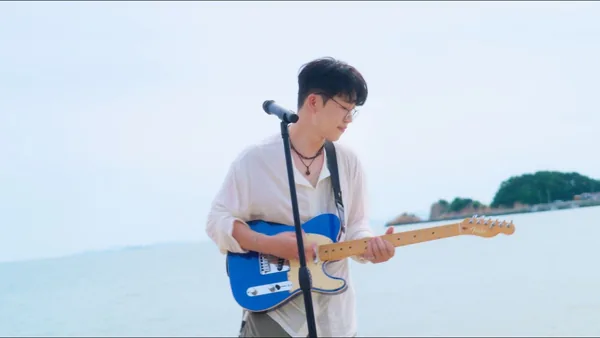
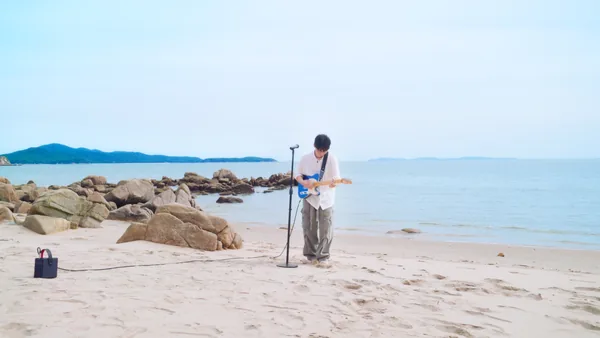
chore(portfolio): 작업물 목록 자동 갱신

diff --git a/works/온 계절이 다 너로 가득한 - 홍대광/index.html b/works/온 계절이 다 너로 가득한 - 홍대광/index.html
@@ -27,12 +27,38 @@
 <article class="post">
   <header class="post-head">
     <h1 class="post-title">온 계절이 다 너로 가득한</h1>
-    <nav class="post-arrows"><a class="post-arrow post-arrow-prev" href="../../works/dewalt%20heritage2/" aria-label="이전 작업물: Dewalt heritage"><svg class="post-arrow-icon" viewBox="0 0 24 24" aria-hidden="true" focusable="false"><polyline points="15 6 9 12 15 18" fill="none" stroke="currentColor" stroke-width="1.5" stroke-linecap="round" stroke-linejoin="round"/></svg></a></nav>
+    <nav class="post-arrows"><a class="post-arrow post-arrow-next" href="../../works/dewalt%20heritage1/" aria-label="다음 작업물: Dewalt heritage"><svg class="post-arrow-icon" viewBox="0 0 24 24" aria-hidden="true" focusable="false"><polyline points="9 6 15 12 9 18" fill="none" stroke="currentColor" stroke-width="1.5" stroke-linecap="round" stroke-linejoin="round"/></svg></a></nav>
   </header>
   <div class="post-main">
     <div class="player"><iframe src="https://www.youtube-nocookie.com/embed/we3nXj6aHr8" title="온 계절이 다 너로 가득한" loading="lazy" allowfullscreen allow="accelerometer; clipboard-write; encrypted-media; picture-in-picture"></iframe></div>
     <div class="gallery">
-
+    <figure class="shot">
+  <img src="../../media/%EC%98%A8%20%EA%B3%84%EC%A0%88%EC%9D%B4%20%EB%8B%A4%20%EB%84%88%EB%A1%9C%20%EA%B0%80%EB%93%9D%ED%95%9C%20-%20%ED%99%8D%EB%8C%80%EA%B4%91/01-1.1.1_1.1.1-1600.webp" width="1600" height="900" alt="온 계절이 다 너로 가득한 — 1번째 이미지" loading="lazy" decoding="async" data-zoom="../../media/%EC%98%A8%20%EA%B3%84%EC%A0%88%EC%9D%B4%20%EB%8B%A4%20%EB%84%88%EB%A1%9C%20%EA%B0%80%EB%93%9D%ED%95%9C%20-%20%ED%99%8D%EB%8C%80%EA%B4%91/01-1.1.1_1.1.1-1600.webp">
+</figure>
+    <figure class="shot">
+  <img src="../../media/%EC%98%A8%20%EA%B3%84%EC%A0%88%EC%9D%B4%20%EB%8B%A4%20%EB%84%88%EB%A1%9C%20%EA%B0%80%EB%93%9D%ED%95%9C%20-%20%ED%99%8D%EB%8C%80%EA%B4%91/02-1.3.1_1.3.1-1600.webp" width="1600" height="900" alt="온 계절이 다 너로 가득한 — 2번째 이미지" loading="lazy" decoding="async" data-zoom="../../media/%EC%98%A8%20%EA%B3%84%EC%A0%88%EC%9D%B4%20%EB%8B%A4%20%EB%84%88%EB%A1%9C%20%EA%B0%80%EB%93%9D%ED%95%9C%20-%20%ED%99%8D%EB%8C%80%EA%B4%91/02-1.3.1_1.3.1-1600.webp">
+</figure>
+    <figure class="shot">
+  <img src="../../media/%EC%98%A8%20%EA%B3%84%EC%A0%88%EC%9D%B4%20%EB%8B%A4%20%EB%84%88%EB%A1%9C%20%EA%B0%80%EB%93%9D%ED%95%9C%20-%20%ED%99%8D%EB%8C%80%EA%B4%91/03-1.8.1_1.8.1-1600.webp" width="1600" height="900" alt="온 계절이 다 너로 가득한 — 3번째 이미지" loading="lazy" decoding="async" data-zoom="../../media/%EC%98%A8%20%EA%B3%84%EC%A0%88%EC%9D%B4%20%EB%8B%A4%20%EB%84%88%EB%A1%9C%20%EA%B0%80%EB%93%9D%ED%95%9C%20-%20%ED%99%8D%EB%8C%80%EA%B4%91/03-1.8.1_1.8.1-1600.webp">
+</figure>
+    <figure class="shot">
+  <img src="../../media/%EC%98%A8%20%EA%B3%84%EC%A0%88%EC%9D%B4%20%EB%8B%A4%20%EB%84%88%EB%A1%9C%20%EA%B0%80%EB%93%9D%ED%95%9C%20-%20%ED%99%8D%EB%8C%80%EA%B4%91/04-1.15.1_1.15.1-1600.webp" width="1600" height="900" alt="온 계절이 다 너로 가득한 — 4번째 이미지" loading="lazy" decoding="async" data-zoom="../../media/%EC%98%A8%20%EA%B3%84%EC%A0%88%EC%9D%B4%20%EB%8B%A4%20%EB%84%88%EB%A1%9C%20%EA%B0%80%EB%93%9D%ED%95%9C%20-%20%ED%99%8D%EB%8C%80%EA%B4%91/04-1.15.1_1.15.1-1600.webp">
+</figure>
+    <figure class="shot">
+  <img src="../../media/%EC%98%A8%20%EA%B3%84%EC%A0%88%EC%9D%B4%20%EB%8B%A4%20%EB%84%88%EB%A1%9C%20%EA%B0%80%EB%93%9D%ED%95%9C%20-%20%ED%99%8D%EB%8C%80%EA%B4%91/05-1.16.1_1.16.1-1600.webp" width="1600" height="900" alt="온 계절이 다 너로 가득한 — 5번째 이미지" loading="lazy" decoding="async" data-zoom="../../media/%EC%98%A8%20%EA%B3%84%EC%A0%88%EC%9D%B4%20%EB%8B%A4%20%EB%84%88%EB%A1%9C%20%EA%B0%80%EB%93%9D%ED%95%9C%20-%20%ED%99%8D%EB%8C%80%EA%B4%91/05-1.16.1_1.16.1-1600.webp">
+</figure>
+    <figure class="shot">
+  <img src="../../media/%EC%98%A8%20%EA%B3%84%EC%A0%88%EC%9D%B4%20%EB%8B%A4%20%EB%84%88%EB%A1%9C%20%EA%B0%80%EB%93%9D%ED%95%9C%20-%20%ED%99%8D%EB%8C%80%EA%B4%91/06-1.19.1_1.19.1-1600.webp" width="1600" height="900" alt="온 계절이 다 너로 가득한 — 6번째 이미지" loading="lazy" decoding="async" data-zoom="../../media/%EC%98%A8%20%EA%B3%84%EC%A0%88%EC%9D%B4%20%EB%8B%A4%20%EB%84%88%EB%A1%9C%20%EA%B0%80%EB%93%9D%ED%95%9C%20-%20%ED%99%8D%EB%8C%80%EA%B4%91/06-1.19.1_1.19.1-1600.webp">
+</figure>
+    <figure class="shot">
+  <img src="../../media/%EC%98%A8%20%EA%B3%84%EC%A0%88%EC%9D%B4%20%EB%8B%A4%20%EB%84%88%EB%A1%9C%20%EA%B0%80%EB%93%9D%ED%95%9C%20-%20%ED%99%8D%EB%8C%80%EA%B4%91/07-1.24.1_1.24.1-1600.webp" width="1600" height="900" alt="온 계절이 다 너로 가득한 — 7번째 이미지" loading="lazy" decoding="async" data-zoom="../../media/%EC%98%A8%20%EA%B3%84%EC%A0%88%EC%9D%B4%20%EB%8B%A4%20%EB%84%88%EB%A1%9C%20%EA%B0%80%EB%93%9D%ED%95%9C%20-%20%ED%99%8D%EB%8C%80%EA%B4%91/07-1.24.1_1.24.1-1600.webp">
+</figure>
+    <figure class="shot">
+  <img src="../../media/%EC%98%A8%20%EA%B3%84%EC%A0%88%EC%9D%B4%20%EB%8B%A4%20%EB%84%88%EB%A1%9C%20%EA%B0%80%EB%93%9D%ED%95%9C%20-%20%ED%99%8D%EB%8C%80%EA%B4%91/08-1.65.1_1.65.1-1600.webp" width="1600" height="900" alt="온 계절이 다 너로 가득한 — 8번째 이미지" loading="lazy" decoding="async" data-zoom="../../media/%EC%98%A8%20%EA%B3%84%EC%A0%88%EC%9D%B4%20%EB%8B%A4%20%EB%84%88%EB%A1%9C%20%EA%B0%80%EB%93%9D%ED%95%9C%20-%20%ED%99%8D%EB%8C%80%EA%B4%91/08-1.65.1_1.65.1-1600.webp">
+</figure>
+    <figure class="shot">
+  <img src="../../media/%EC%98%A8%20%EA%B3%84%EC%A0%88%EC%9D%B4%20%EB%8B%A4%20%EB%84%88%EB%A1%9C%20%EA%B0%80%EB%93%9D%ED%95%9C%20-%20%ED%99%8D%EB%8C%80%EA%B4%91/09-1.109.1_1.109.1-1600.webp" width="1600" height="900" alt="온 계절이 다 너로 가득한 — 9번째 이미지" loading="lazy" decoding="async" data-zoom="../../media/%EC%98%A8%20%EA%B3%84%EC%A0%88%EC%9D%B4%20%EB%8B%A4%20%EB%84%88%EB%A1%9C%20%EA%B0%80%EB%93%9D%ED%95%9C%20-%20%ED%99%8D%EB%8C%80%EA%B4%91/09-1.109.1_1.109.1-1600.webp">
+</figure>
     </div>
     <div class="post-body">
 

diff --git a/works/dewalt heritage2/index.html b/works/dewalt heritage2/index.html
@@ -27,7 +27,7 @@
 <article class="post">
   <header class="post-head">
     <h1 class="post-title">Dewalt heritage</h1>
-    <nav class="post-arrows"><a class="post-arrow post-arrow-prev" href="../../works/dewalt%20heritage3/" aria-label="이전 작업물: Dewalt heritage"><svg class="post-arrow-icon" viewBox="0 0 24 24" aria-hidden="true" focusable="false"><polyline points="15 6 9 12 15 18" fill="none" stroke="currentColor" stroke-width="1.5" stroke-linecap="round" stroke-linejoin="round"/></svg></a><a class="post-arrow post-arrow-next" href="../../works/%EC%98%A8%20%EA%B3%84%EC%A0%88%EC%9D%B4%20%EB%8B%A4%20%EB%84%88%EB%A1%9C%20%EA%B0%80%EB%93%9D%ED%95%9C%20-%20%ED%99%8D%EB%8C%80%EA%B4%91/" aria-label="다음 작업물: 온 계절이 다 너로 가득한"><svg class="post-arrow-icon" viewBox="0 0 24 24" aria-hidden="true" focusable="false"><polyline points="9 6 15 12 9 18" fill="none" stroke="currentColor" stroke-width="1.5" stroke-linecap="round" stroke-linejoin="round"/></svg></a></nav>
+    <nav class="post-arrows"><a class="post-arrow post-arrow-prev" href="../../works/dewalt%20heritage3/" aria-label="이전 작업물: Dewalt heritage"><svg class="post-arrow-icon" viewBox="0 0 24 24" aria-hidden="true" focusable="false"><polyline points="15 6 9 12 15 18" fill="none" stroke="currentColor" stroke-width="1.5" stroke-linecap="round" stroke-linejoin="round"/></svg></a></nav>
   </header>
   <div class="post-main">
     
@@ -64,6 +64,13 @@
 </article>
 <section class="category" data-more="false">
   <div class="grid">
+    <a class="card" href="../../works/%EC%98%A8%20%EA%B3%84%EC%A0%88%EC%9D%B4%20%EB%8B%A4%20%EB%84%88%EB%A1%9C%20%EA%B0%80%EB%93%9D%ED%95%9C%20-%20%ED%99%8D%EB%8C%80%EA%B4%91/">
+  <span class="card-frame">
+    <img src="../../media/%EC%98%A8%20%EA%B3%84%EC%A0%88%EC%9D%B4%20%EB%8B%A4%20%EB%84%88%EB%A1%9C%20%EA%B0%80%EB%93%9D%ED%95%9C%20-%20%ED%99%8D%EB%8C%80%EA%B4%91/cover-600.webp" width="600" height="338" alt="온 계절이 다 너로 가득한" loading="lazy" decoding="async">
+    <span class="badge">VIDEO</span>
+    <span class="card-title"><span class="card-name">온 계절이 다 너로 가득한</span><span class="card-rule" aria-hidden="true"></span><span class="card-genre">live clip</span></span>
+  </span>
+</a>
     <a class="card" href="../../works/dewalt%20heritage1/">
   <span class="card-frame">
     <img src="../../media/dewalt%20heritage1/cover-600.webp" width="600" height="1067" alt="Dewalt heritage" loading="lazy" decoding="async">
@@ -76,13 +83,6 @@
     <img src="../../media/dewalt%20heritage3/cover-600.webp" width="600" height="1067" alt="Dewalt heritage" loading="lazy" decoding="async">
     
     <span class="card-title"><span class="card-name">Dewalt heritage</span><span class="card-rule" aria-hidden="true"></span><span class="card-genre">fashion film</span></span>
-  </span>
-</a>
-    <a class="card" href="../../works/%EC%98%A8%20%EA%B3%84%EC%A0%88%EC%9D%B4%20%EB%8B%A4%20%EB%84%88%EB%A1%9C%20%EA%B0%80%EB%93%9D%ED%95%9C%20-%20%ED%99%8D%EB%8C%80%EA%B4%91/">
-  <span class="card-frame">
-    <img src="../../media/%EC%98%A8%20%EA%B3%84%EC%A0%88%EC%9D%B4%20%EB%8B%A4%20%EB%84%88%EB%A1%9C%20%EA%B0%80%EB%93%9D%ED%95%9C%20-%20%ED%99%8D%EB%8C%80%EA%B4%91/cover-600.webp" width="600" height="338" alt="온 계절이 다 너로 가득한" loading="lazy" decoding="async">
-    <span class="badge">VIDEO</span>
-    <span class="card-title"><span class="card-name">온 계절이 다 너로 가득한</span><span class="card-rule" aria-hidden="true"></span><span class="card-genre">live clip</span></span>
   </span>
 </a>
   </div>

diff --git a/works/dewalt heritage1/index.html b/works/dewalt heritage1/index.html
@@ -27,7 +27,7 @@
 <article class="post">
   <header class="post-head">
     <h1 class="post-title">Dewalt heritage</h1>
-    <nav class="post-arrows"><a class="post-arrow post-arrow-next" href="../../works/dewalt%20heritage3/" aria-label="다음 작업물: Dewalt heritage"><svg class="post-arrow-icon" viewBox="0 0 24 24" aria-hidden="true" focusable="false"><polyline points="9 6 15 12 9 18" fill="none" stroke="currentColor" stroke-width="1.5" stroke-linecap="round" stroke-linejoin="round"/></svg></a></nav>
+    <nav class="post-arrows"><a class="post-arrow post-arrow-prev" href="../../works/%EC%98%A8%20%EA%B3%84%EC%A0%88%EC%9D%B4%20%EB%8B%A4%20%EB%84%88%EB%A1%9C%20%EA%B0%80%EB%93%9D%ED%95%9C%20-%20%ED%99%8D%EB%8C%80%EA%B4%91/" aria-label="이전 작업물: 온 계절이 다 너로 가득한"><svg class="post-arrow-icon" viewBox="0 0 24 24" aria-hidden="true" focusable="false"><polyline points="15 6 9 12 15 18" fill="none" stroke="currentColor" stroke-width="1.5" stroke-linecap="round" stroke-linejoin="round"/></svg></a><a class="post-arrow post-arrow-next" href="../../works/dewalt%20heritage3/" aria-label="다음 작업물: Dewalt heritage"><svg class="post-arrow-icon" viewBox="0 0 24 24" aria-hidden="true" focusable="false"><polyline points="9 6 15 12 9 18" fill="none" stroke="currentColor" stroke-width="1.5" stroke-linecap="round" stroke-linejoin="round"/></svg></a></nav>
   </header>
   <div class="post-main">
     
@@ -67,6 +67,13 @@
 </article>
 <section class="category" data-more="false">
   <div class="grid">
+    <a class="card" href="../../works/%EC%98%A8%20%EA%B3%84%EC%A0%88%EC%9D%B4%20%EB%8B%A4%20%EB%84%88%EB%A1%9C%20%EA%B0%80%EB%93%9D%ED%95%9C%20-%20%ED%99%8D%EB%8C%80%EA%B4%91/">
+  <span class="card-frame">
+    <img src="../../media/%EC%98%A8%20%EA%B3%84%EC%A0%88%EC%9D%B4%20%EB%8B%A4%20%EB%84%88%EB%A1%9C%20%EA%B0%80%EB%93%9D%ED%95%9C%20-%20%ED%99%8D%EB%8C%80%EA%B4%91/cover-600.webp" width="600" height="338" alt="온 계절이 다 너로 가득한" loading="lazy" decoding="async">
+    <span class="badge">VIDEO</span>
+    <span class="card-title"><span class="card-name">온 계절이 다 너로 가득한</span><span class="card-rule" aria-hidden="true"></span><span class="card-genre">live clip</span></span>
+  </span>
+</a>
     <a class="card" href="../../works/dewalt%20heritage3/">
   <span class="card-frame">
     <img src="../../media/dewalt%20heritage3/cover-600.webp" width="600" height="1067" alt="Dewalt heritage" loading="lazy" decoding="async">
@@ -79,13 +86,6 @@
     <img src="../../media/dewalt%20heritage2/cover-600.webp" width="600" height="1067" alt="Dewalt heritage" loading="lazy" decoding="async">
     
     <span class="card-title"><span class="card-name">Dewalt heritage</span><span class="card-rule" aria-hidden="true"></span><span class="card-genre">fashion film</span></span>
-  </span>
-</a>
-    <a class="card" href="../../works/%EC%98%A8%20%EA%B3%84%EC%A0%88%EC%9D%B4%20%EB%8B%A4%20%EB%84%88%EB%A1%9C%20%EA%B0%80%EB%93%9D%ED%95%9C%20-%20%ED%99%8D%EB%8C%80%EA%B4%91/">
-  <span class="card-frame">
-    <img src="../../media/%EC%98%A8%20%EA%B3%84%EC%A0%88%EC%9D%B4%20%EB%8B%A4%20%EB%84%88%EB%A1%9C%20%EA%B0%80%EB%93%9D%ED%95%9C%20-%20%ED%99%8D%EB%8C%80%EA%B4%91/cover-600.webp" width="600" height="338" alt="온 계절이 다 너로 가득한" loading="lazy" decoding="async">
-    <span class="badge">VIDEO</span>
-    <span class="card-title"><span class="card-name">온 계절이 다 너로 가득한</span><span class="card-rule" aria-hidden="true"></span><span class="card-genre">live clip</span></span>
   </span>
 </a>
   </div>

diff --git a/works/dewalt heritage3/index.html b/works/dewalt heritage3/index.html
@@ -58,6 +58,13 @@
 </article>
 <section class="category" data-more="false">
   <div class="grid">
+    <a class="card" href="../../works/%EC%98%A8%20%EA%B3%84%EC%A0%88%EC%9D%B4%20%EB%8B%A4%20%EB%84%88%EB%A1%9C%20%EA%B0%80%EB%93%9D%ED%95%9C%20-%20%ED%99%8D%EB%8C%80%EA%B4%91/">
+  <span class="card-frame">
+    <img src="../../media/%EC%98%A8%20%EA%B3%84%EC%A0%88%EC%9D%B4%20%EB%8B%A4%20%EB%84%88%EB%A1%9C%20%EA%B0%80%EB%93%9D%ED%95%9C%20-%20%ED%99%8D%EB%8C%80%EA%B4%91/cover-600.webp" width="600" height="338" alt="온 계절이 다 너로 가득한" loading="lazy" decoding="async">
+    <span class="badge">VIDEO</span>
+    <span class="card-title"><span class="card-name">온 계절이 다 너로 가득한</span><span class="card-rule" aria-hidden="true"></span><span class="card-genre">live clip</span></span>
+  </span>
+</a>
     <a class="card" href="../../works/dewalt%20heritage1/">
   <span class="card-frame">
     <img src="../../media/dewalt%20heritage1/cover-600.webp" width="600" height="1067" alt="Dewalt heritage" loading="lazy" decoding="async">
@@ -70,13 +77,6 @@
     <img src="../../media/dewalt%20heritage2/cover-600.webp" width="600" height="1067" alt="Dewalt heritage" loading="lazy" decoding="async">
     
     <span class="card-title"><span class="card-name">Dewalt heritage</span><span class="card-rule" aria-hidden="true"></span><span class="card-genre">fashion film</span></span>
-  </span>
-</a>
-    <a class="card" href="../../works/%EC%98%A8%20%EA%B3%84%EC%A0%88%EC%9D%B4%20%EB%8B%A4%20%EB%84%88%EB%A1%9C%20%EA%B0%80%EB%93%9D%ED%95%9C%20-%20%ED%99%8D%EB%8C%80%EA%B4%91/">
-  <span class="card-frame">
-    <img src="../../media/%EC%98%A8%20%EA%B3%84%EC%A0%88%EC%9D%B4%20%EB%8B%A4%20%EB%84%88%EB%A1%9C%20%EA%B0%80%EB%93%9D%ED%95%9C%20-%20%ED%99%8D%EB%8C%80%EA%B4%91/cover-600.webp" width="600" height="338" alt="온 계절이 다 너로 가득한" loading="lazy" decoding="async">
-    <span class="badge">VIDEO</span>
-    <span class="card-title"><span class="card-name">온 계절이 다 너로 가득한</span><span class="card-rule" aria-hidden="true"></span><span class="card-genre">live clip</span></span>
   </span>
 </a>
   </div>

diff --git a/index.html b/index.html
@@ -24,6 +24,13 @@
 <main id="main">
 <section class="category" data-more="false">
   <div class="grid">
+    <a class="card" href="works/%EC%98%A8%20%EA%B3%84%EC%A0%88%EC%9D%B4%20%EB%8B%A4%20%EB%84%88%EB%A1%9C%20%EA%B0%80%EB%93%9D%ED%95%9C%20-%20%ED%99%8D%EB%8C%80%EA%B4%91/">
+  <span class="card-frame">
+    <img src="media/%EC%98%A8%20%EA%B3%84%EC%A0%88%EC%9D%B4%20%EB%8B%A4%20%EB%84%88%EB%A1%9C%20%EA%B0%80%EB%93%9D%ED%95%9C%20-%20%ED%99%8D%EB%8C%80%EA%B4%91/cover-600.webp" width="600" height="338" alt="온 계절이 다 너로 가득한" loading="lazy" decoding="async">
+    <span class="badge">VIDEO</span>
+    <span class="card-title"><span class="card-name">온 계절이 다 너로 가득한</span><span class="card-rule" aria-hidden="true"></span><span class="card-genre">live clip</span></span>
+  </span>
+</a>
     <a class="card" href="works/dewalt%20heritage1/">
   <span class="card-frame">
     <img src="media/dewalt%20heritage1/cover-600.webp" width="600" height="1067" alt="Dewalt heritage" loading="lazy" decoding="async">
@@ -43,13 +50,6 @@
     <img src="media/dewalt%20heritage2/cover-600.webp" width="600" height="1067" alt="Dewalt heritage" loading="lazy" decoding="async">
     
     <span class="card-title"><span class="card-name">Dewalt heritage</span><span class="card-rule" aria-hidden="true"></span><span class="card-genre">fashion film</span></span>
-  </span>
-</a>
-    <a class="card" href="works/%EC%98%A8%20%EA%B3%84%EC%A0%88%EC%9D%B4%20%EB%8B%A4%20%EB%84%88%EB%A1%9C%20%EA%B0%80%EB%93%9D%ED%95%9C%20-%20%ED%99%8D%EB%8C%80%EA%B4%91/">
-  <span class="card-frame">
-    <img src="media/%EC%98%A8%20%EA%B3%84%EC%A0%88%EC%9D%B4%20%EB%8B%A4%20%EB%84%88%EB%A1%9C%20%EA%B0%80%EB%93%9D%ED%95%9C%20-%20%ED%99%8D%EB%8C%80%EA%B4%91/cover-600.webp" width="600" height="338" alt="온 계절이 다 너로 가득한" loading="lazy" decoding="async">
-    <span class="badge">VIDEO</span>
-    <span class="card-title"><span class="card-name">온 계절이 다 너로 가득한</span><span class="card-rule" aria-hidden="true"></span><span class="card-genre">live clip</span></span>
   </span>
 </a>
   </div>
